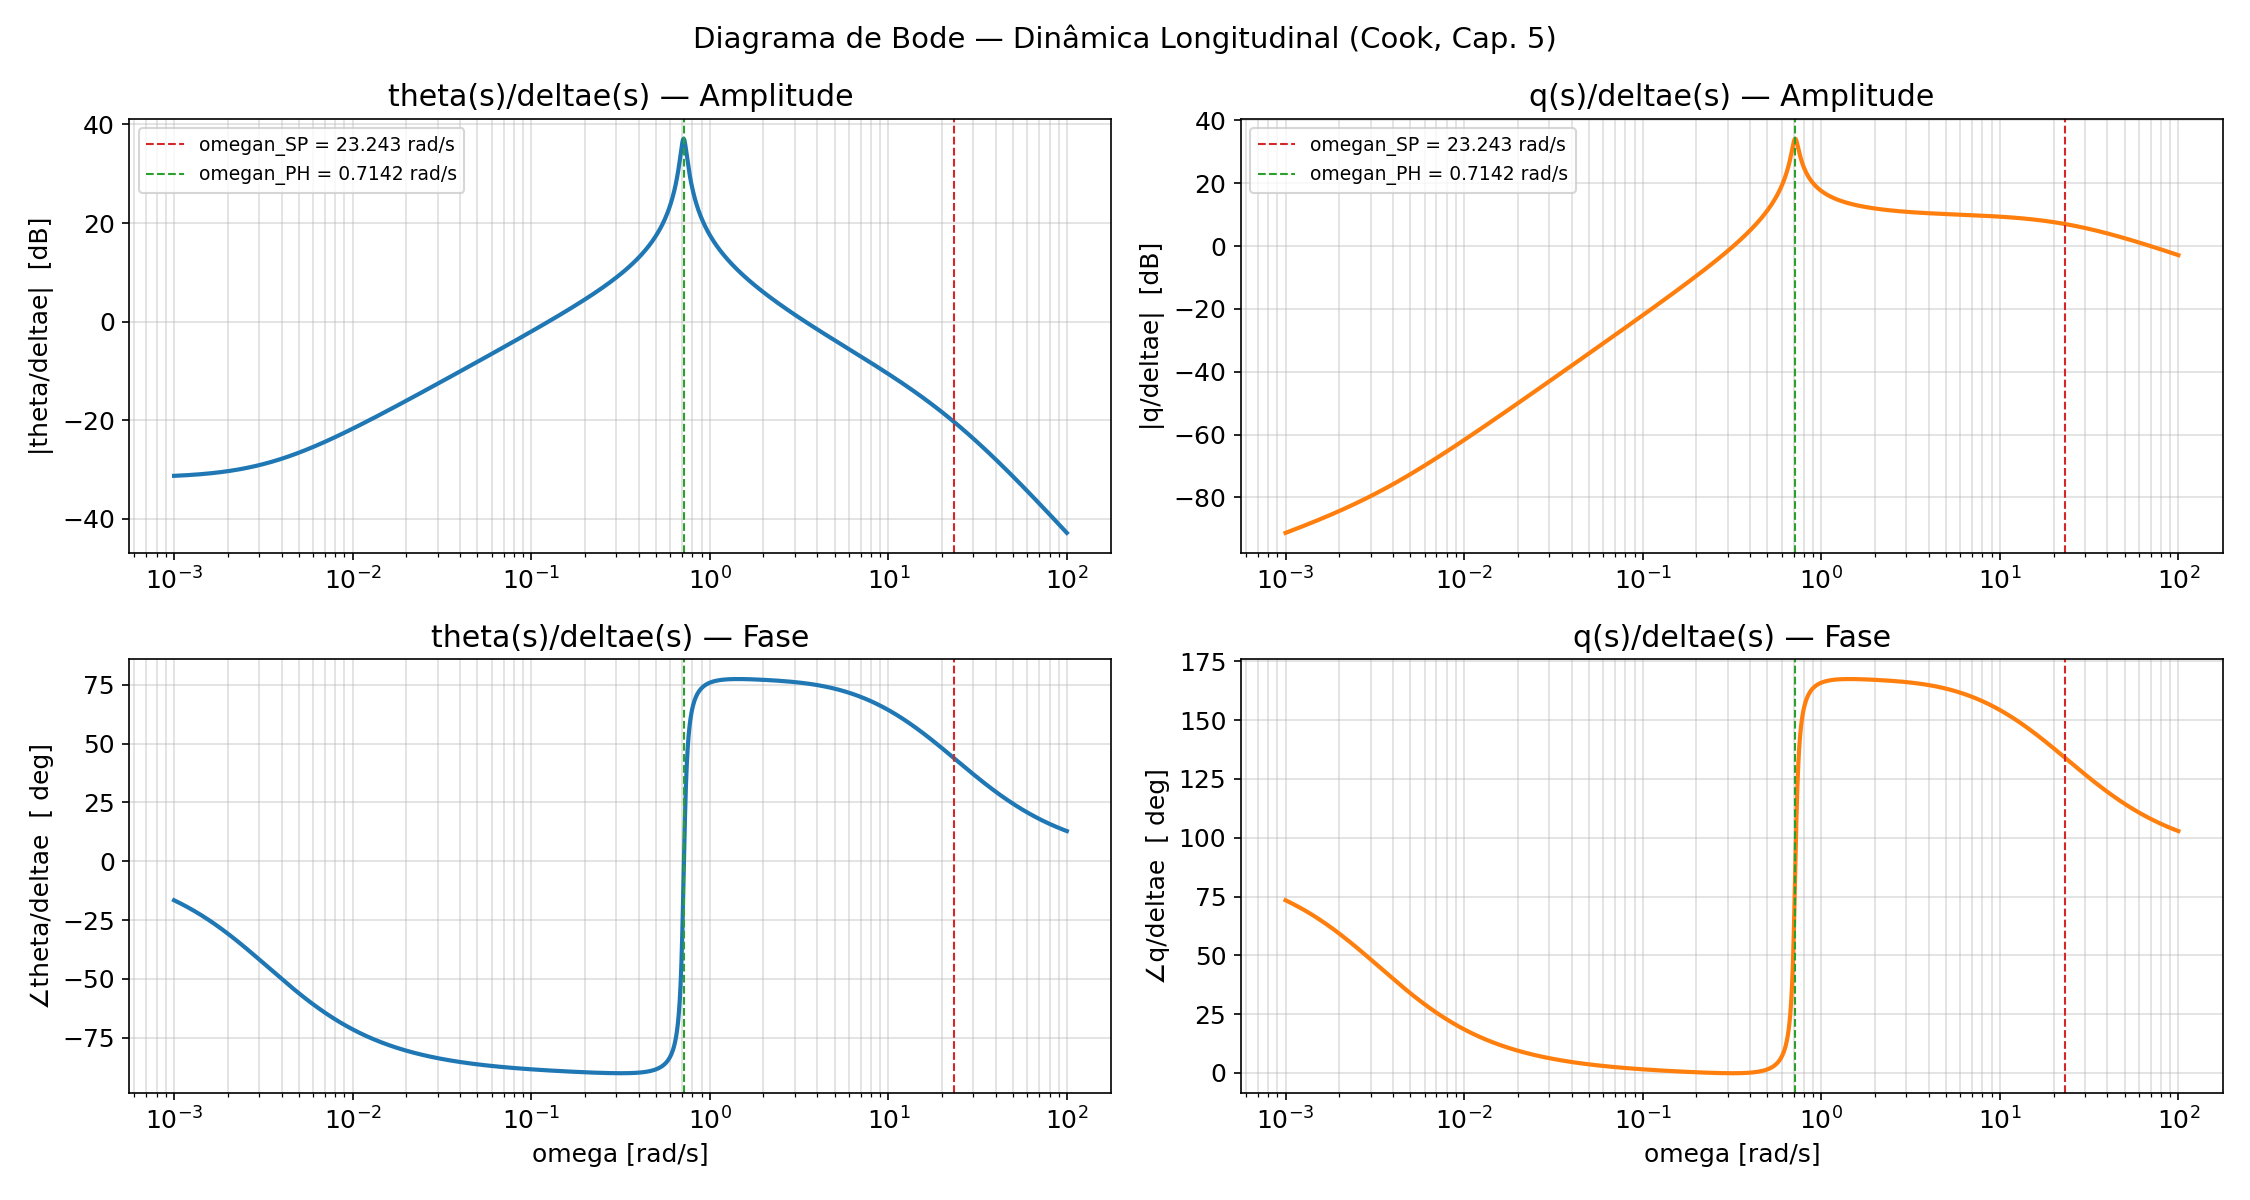
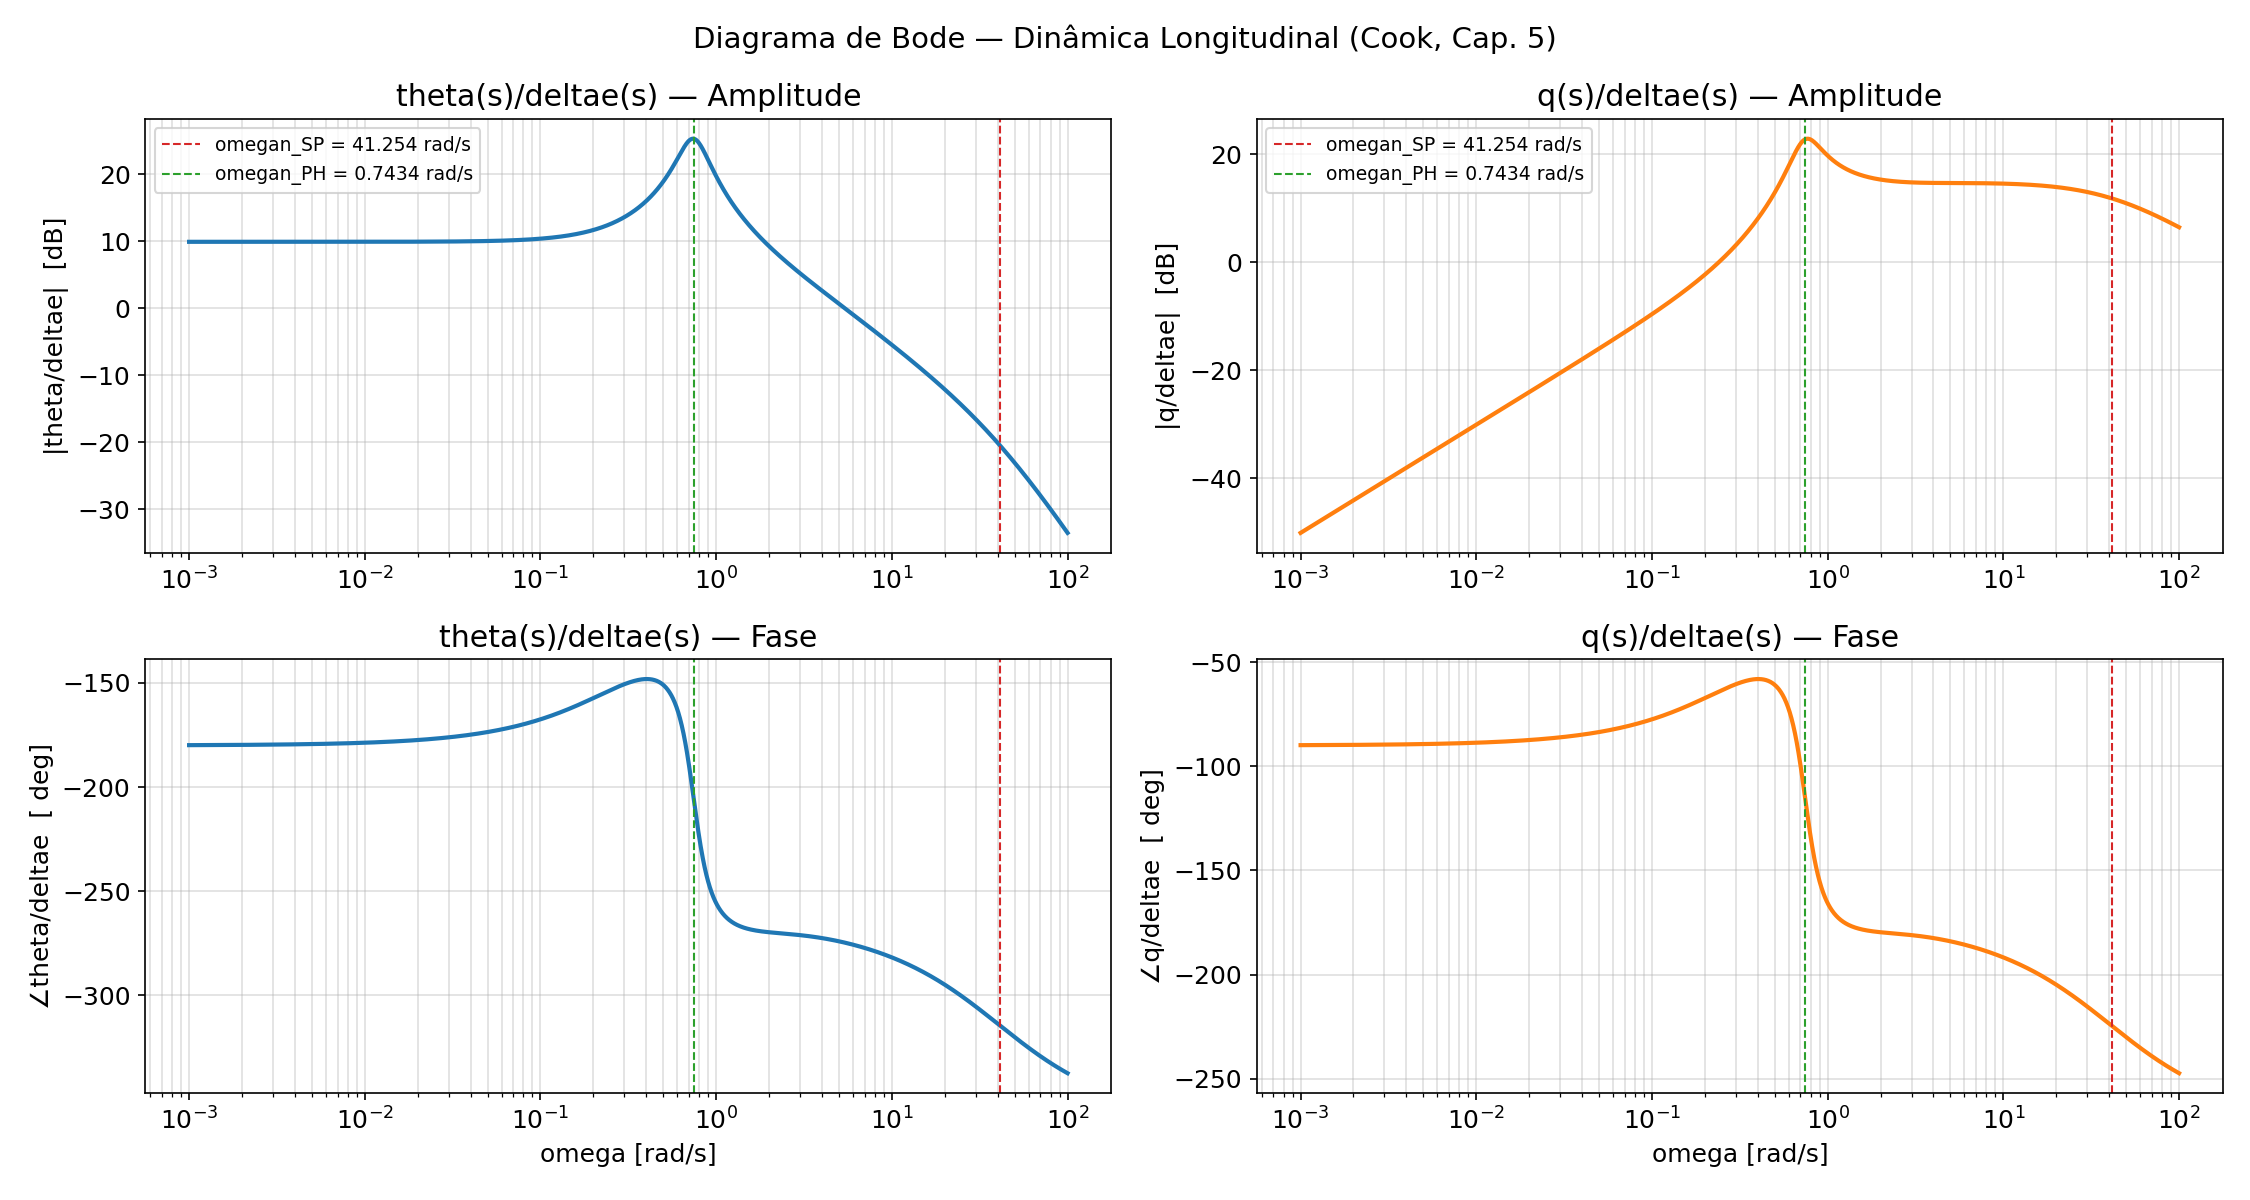
Implementação do bloco 0

Changed region(s): [[0.0, 0.0617, 0.9956, 0.4933], [0.0311, 0.5242, 0.9644, 0.9867], [0.2489, 0.9558, 0.3111, 0.9867]]

diff --git a/EstabilidadeLongitudinal.py b/EstabilidadeLongitudinal.py
@@ -53,31 +53,193 @@ Ue = V0 * np.cos(alpha_e)    # Componente axial de trim [m/s]
 We = V0 * np.sin(alpha_e)    # Componente normal de trim [m/s]
 q_dyn_e = 0.5 * rho * V0**2  # Pressão dinâmica de trim [Pa]
 
+# =============================================================================
+# BLOCO 0 — DERIVAÇÃO ANALÍTICA DE DERIVATIVOS A PARTIR DE PARÂMETROS
+#           CONSTRUTIVOS (Helmbold, volume de cauda, teoria de downwash)
+#
+# REFERÊNCIAS:
+#   - Helmbold (1942) / Prandtl-Glauert: CLα para asas de alongamento finito
+#   - Cook (Cap. 4): derivativos dimensionais e adimensionais em eixo de corpo
+#   - Perkins & Hage / Nelson: fórmulas para Cm_q, Cm_wdot via EH
+#
+# PREMISSAS DO BLOCO 0:
+#   - Contribuição da asa pelo método de Helmbold (válido para AR < 4·β²/κ)
+#   - Estabilizador horizontal modelado como asa isolada (sem interferência)
+#   - Downwash linear com α: ε = ε₀ + (dε/dα)·α
+#   - Cm_u = 0 (velocidade-derivada de momento): justificado em regime
+#     subsônico profundo (M = V₀/a = 12/340 = 0.035), onde os efeitos de
+#     compressibilidade (∂CD/∂M, ∂CL/∂M) são < 0.1% e podem ser desprezados.
+#     Para M > 0.3, Cm_u deve ser recalculado via ∂Cm/∂M × 2M/V₀.
+#   - CX_q = 0: taxa de arfagem não gera força axial significativa
+#   - CX_wdot = 0: derivada de aceleração normal em CX desprezível
+# =============================================================================
+
+# --- 0.1 — Parâmetros geométricos construtivos (AXE FLY 2024) ---
+AR_w    = 5.15          # Alongamento da asa [-]
+e_w     = 0.89          # Fator de eficiência de Oswald da asa [-]
+iw      = np.deg2rad(6.0)  # Ângulo de incidência da asa [rad]
+
+S_EH    = 0.2662        # Área do estabilizador horizontal [m²]
+l_EH    = 1.124         # Distância CA-asa → CA-EH [m]
+AR_EH   = 5.05          # Alongamento do EH [-]
+e_EH    = 0.85          # Fator de eficiência de Oswald do EH [-]
+ih      = 0.0           # Ângulo de incidência do EH [rad]
+
+x_cg    = 0.43          # Posição do CG em fração de c̄ (bordo de ataque = 0)
+x_ca    = 0.25          # Posição do CA da asa em fração de c̄
+
+Cm_alpha_fus = 0.0012   # Contribuição da fuselagem a Cm_α [1/rad]
+
+eps0        = np.deg2rad(5.41)  # Downwash no trim (α = 0) [rad]
+deps_dalpha = 0.4202            # Gradiente de downwash dε/dα [-] (Helmbold/experimento)
+
+tau_e   = 0.8           # Eficiência do elevator: η_e = ∂α_EH/∂δe [-]
+
+CD0_geom = 0.0211       # Arrasto parasita "limpo" (teoria, sem interferência) [-]
+                        # NOTA: valor tabulated (0.0806) inclui interferência,
+                        # fricção em baixo Re e outros efeitos não modelados aqui.
+
+# --- 0.2 — Inclinações de CLα pela fórmula de Helmbold / Prandtl-Glauert ---
+# CLα = a₀ / (β + a₀/(π·e·AR))   onde β = √(1 − M²), a₀ = 2π (perfil 2D)
+# Válida para AR·β/κ < 4 (κ = correção de espessura ≈ 1); aqui AR·β ≈ 5.15.
+M_trim     = V0 / 340.0          # Mach de trim (velocidade do som ao nível do mar)
+beta_pg    = np.sqrt(max(1.0 - M_trim**2, 0.01))   # fator Prandtl-Glauert
+a0         = 2.0 * np.pi         # CLα do perfil 2D [1/rad]
+
+CLaw  = a0 / (beta_pg + a0 / (np.pi * e_w  * AR_w))   # asa [1/rad]
+CLaEH = a0 / (beta_pg + a0 / (np.pi * e_EH * AR_EH))  # EH  [1/rad]
+
+# --- 0.3 — Volume do estabilizador horizontal ---
+# VH = l_EH · S_EH / (c̄ · S)  [adimensional]
+VH = l_EH * S_EH / (c * S)
+
+# --- 0.4 — Derivativos de momento (Cm_α por componente) ---
+# Contribuição da asa: Cm_α_asa = CLα_w · (x_cg − x_ca)
+#   Positivo se CG à frente do CA → desestabilizador (soma positiva)
+Cm_alpha_asa = CLaw * (x_cg - x_ca)
+
+# Contribuição do EH: Cm_α_EH = −CLα_EH · VH · (1 − dε/dα)
+#   Sempre negativa (estabilizadora); atenuada pelo gradiente de downwash
+Cm_alpha_EH  = -CLaEH * VH * (1.0 - deps_dalpha)
+
+# Cm_α total: soma das três contribuições
+Cm_alpha_tot = Cm_alpha_asa + Cm_alpha_fus + Cm_alpha_EH  # [1/rad]
+
+# Ponto neutro e margem estática (SM)
+#   x_np/c̄ = x_ca − (Cm_α_fus + Cm_α_EH) / CLα_w
+x_np = x_ca - (Cm_alpha_fus + Cm_alpha_EH) / CLaw    # [fração de c̄]
+SM   = x_np - x_cg                                    # [fração de c̄]  (+) = estável
+
+# --- 0.5 — CLα total da aeronave ---
+# CLα_total inclui asa e contribuição do EH descontada do downwash
+CLa_total = CLaw + CLaEH * (S_EH / S) * (1.0 - deps_dalpha)   # [1/rad]
+
+# --- 0.6 — Derivativos de força normal e axial (CZ_*, CX_*) ---
+# CZ_w: variação de CZ com perturbação w (≈ −CLα para αe pequeno)
+CZ_w_geom = -CLa_total    # [1/rad]  CZ_w = −CLα_total
+
+# CZ_u: variação de CZ com perturbação de velocidade (Lanchester: ≈ −2·CL_trim)
+CL_trim_geom = m * g * np.cos(alpha_e) / (q_dyn_e * S)   # CL de equilíbrio
+CZ_u_geom    = -2.0 * CL_trim_geom                         # [adimensional]
+
+# CX_u: variação de CX com perturbação de velocidade (≈ −2·CD_trim em subsônico)
+k_geom       = 1.0 / (np.pi * AR_w * e_w)          # fator de arrasto induzido
+CD_trim_geom = CD0_geom + k_geom * CL_trim_geom**2  # CD de equilíbrio
+CX_u_geom    = -2.0 * CD_trim_geom                   # [adimensional]
+
+# CX_w: variação de CX com perturbação w  (efeito de sustentação projetada em x)
+#   CX_w = CL_trim − 2·k·CL_trim·CLα_w  (Cook, Cap. 4)
+CX_w_geom    = CL_trim_geom - 2.0 * k_geom * CL_trim_geom * CLaw
+
+# --- 0.7 — Derivativos de controle do elevator ---
+# CZ_de: força normal gerada por deflexão de elevator
+#   CZ_de = −CLα_EH · (S_EH/S) · τ_e
+CZ_de_geom = -CLaEH * (S_EH / S) * tau_e    # [1/rad]
+
+# Cm_de: momento de arfagem gerado por elevator
+#   Cm_de = −CLα_EH · VH · τ_e
+Cm_de_geom = -CLaEH * VH * tau_e             # [1/rad]
+
+# CX_de ≈ 0 (força axial do elevator é desprezível para αe pequeno)
+CX_de_geom = 0.0
+
+# --- 0.8 — Derivativos de amortecimento em arfagem (Cm_q, CZ_q) ---
+# Quando q ≠ 0, o EH experimenta ΔαEH = q·l_EH/V₀
+# Cm_q = −2·CLα_EH·VH·(l_EH/c̄)    [amortecimento de arfagem]
+# CZ_q = −2·CLα_EH·(S_EH/S)·(l_EH/c̄)
+Cm_q_geom = -2.0 * CLaEH * VH * (l_EH / c)           # [1/rad]
+CZ_q_geom = -2.0 * CLaEH * (S_EH / S) * (l_EH / c)   # [1/rad]
+
+# --- 0.9 — Derivativos de atraso de downwash (Cm_wdot, CZ_wdot) ---
+# Quando ẇ ≠ 0, o downwash no EH se atrasa por Δt ≈ l_EH/V₀.
+# O EH opera com αEH defasado: ΔαEH_delay = (dε/dα)·(ẇ·l_EH/V₀)/(2V₀)·c̄
+# Cm_wdot = −CLα_EH·VH·(dε/dα)/2
+# CZ_wdot = −CLα_EH·(S_EH/S)·(dε/dα)/2
+Cm_wdot_geom = -CLaEH * VH         * deps_dalpha / 2.0   # [1/rad]
+CZ_wdot_geom = -CLaEH * (S_EH / S) * deps_dalpha / 2.0   # [1/rad]
+
+# --- 0.10 — Cm_u: derivativo de velocidade de momento ---
+# Em voo subsônico profundo (M << 1), ∂CD/∂M ≈ 0 e ∂CL/∂M ≈ 0,
+# portanto Cm_u ≈ 0 (ver Cook Cap. 4; efeito só relevante para M > 0.3).
+Cm_u_geom = 0.0
+
+# --- 0.11 — Print do Bloco 0 ---
+print("=" * 62)
+print("  BLOCO 0 — DERIVATIVOS CONSTRUTIVOS (Helmbold / downwash)")
+print("=" * 62)
+print(f"\n  Parâmetros geométricos:")
+print(f"    AR_w / e_w             : {AR_w} / {e_w}")
+print(f"    S_EH / l_EH            : {S_EH} m2 / {l_EH} m")
+print(f"    x_cg / x_ca (frac. c)  : {x_cg} / {x_ca}")
+print(f"    dε/dα (downwash grad.) : {deps_dalpha}")
+print(f"    τ_e  (efic. elevator)  : {tau_e}")
+print(f"    M de trim              : {M_trim:.4f}  (Prandtl-Glauert: β={beta_pg:.5f})")
+print(f"\n  CLα calculados:")
+print(f"    CLα da asa (Helmbold)  : {CLaw:.4f}  [1/rad]")
+print(f"    CLα do EH  (Helmbold)  : {CLaEH:.4f}  [1/rad]")
+print(f"    CLα total aeronave     : {CLa_total:.4f}  [1/rad]")
+print(f"    Volume EH (VH)         : {VH:.4f}")
+print(f"\n  Estabilidade estática de arfagem:")
+print(f"    Cm_α da asa            : {Cm_alpha_asa:+.5f}  [1/rad]")
+print(f"    Cm_α da fuselagem      : {Cm_alpha_fus:+.5f}  [1/rad]")
+print(f"    Cm_α do EH             : {Cm_alpha_EH:+.5f}  [1/rad]")
+print(f"    Cm_α TOTAL             : {Cm_alpha_tot:+.5f}  [1/rad]  ({'ESTAVEL' if Cm_alpha_tot < 0 else 'INSTAVEL'})")
+print(f"    Ponto Neutro (x_np/c)  : {x_np:+.4f}")
+print(f"    Margem Estática (SM)   : {SM*100:+.2f}%  ({'estavel' if SM > 0 else 'instavel'})")
+print(f"\n  Derivativos adimensionais calculados:")
+print(f"    CX_u = {CX_u_geom:+.4f}   CX_w = {CX_w_geom:+.4f}   CX_de = {CX_de_geom:+.4f}")
+print(f"    CZ_u = {CZ_u_geom:+.4f}   CZ_w = {CZ_w_geom:+.4f}   CZ_q  = {CZ_q_geom:+.4f}")
+print(f"    CZ_wdot = {CZ_wdot_geom:+.5f}             CZ_de = {CZ_de_geom:+.4f}")
+print(f"    Cm_u = {Cm_u_geom:+.4f}   Cm_w = {Cm_alpha_tot:+.4f}   Cm_q  = {Cm_q_geom:+.4f}")
+print(f"    Cm_wdot = {Cm_wdot_geom:+.5f}             Cm_de = {Cm_de_geom:+.4f}")
+print(f"    CD0 = {CD0_geom:.4f}   k = {k_geom:.4f}   CL_trim = {CL_trim_geom:.4f}")
+print("=" * 62)
+
 # --- Derivadas adimensionais de estabilidade longitudinal ---
+# Calculadas no Bloco 0 a partir de parâmetros geométricos construtivos.
 # Convenção Cook / Bryan: perturbações normalizadas por V₀ (eixo de corpo).
 # Os termos "_wdot" usam normalização adicional por c/(2V₀) (ver Bloco 4).
-CX_u     =  0.0076
-CX_w     =  0.0483
-CX_wdot  =  0.0       # geralmente negligenciável; incluído por completeza
-CX_q     =  0.0
-CX_de    =  0.0618    # deltae = elevator
+CX_u    = CX_u_geom
+CX_w    = CX_w_geom
+CX_wdot = 0.0            # desprezível (contribuição de ordem superior)
+CX_q    = 0.0            # taxa de arfagem não gera força axial significativa
+CX_de   = CX_de_geom
 
-CZ_u     = -0.7273
-CZ_w     = -3.1245
-CZ_wdot  = -0.3997    # efeito de aceleração normal (Madelung)
-CZ_q     = -1.2109
-CZ_de    = -0.3741
+CZ_u    = CZ_u_geom
+CZ_w    = CZ_w_geom
+CZ_wdot = CZ_wdot_geom
+CZ_q    = CZ_q_geom
+CZ_de   = CZ_de_geom
 
-Cm_u     =  0.0340
-Cm_w     = -0.2169
-Cm_wdot  = -0.5910    # amortecimento por aceleração normal (Madelung)
-Cm_q     = -1.2732
-Cm_de    = -0.5581
+Cm_u    = Cm_u_geom      # = 0 (justificado em subsônico profundo, M=0.035)
+Cm_w    = Cm_alpha_tot   # = Cm_α total da aeronave [1/rad]
+Cm_wdot = Cm_wdot_geom
+Cm_q    = Cm_q_geom
+Cm_de   = Cm_de_geom
 
 # --- Polar de arrasto e condição de trim ---
-CD0  = 0.0806    # Coeficiente de arrasto parasita
-k    = 0.0706    # Fator de arrasto induzido  k = 1/(π.AR.e)
-CL_alpha = -CZ_w   # Derivada CLα ≈ -CZ_w [1/rad] (eixo de estabilidade ≈ corpo p/ αe pequeno)
+CD0      = CD0_geom      # Coef. de arrasto parasita (valor "limpo", Bloco 0)
+k        = k_geom        # Fator de arrasto induzido k = 1/(π·AR·e)
 
 # CL de equilíbrio a partir do equilíbrio de força normal:
 #   Z_aero_trim = -m·g·cos(θe)   →   CL_e·cos(αe) + CD_e·sin(αe) = m·g·cos(αe)/(q_e·S)
